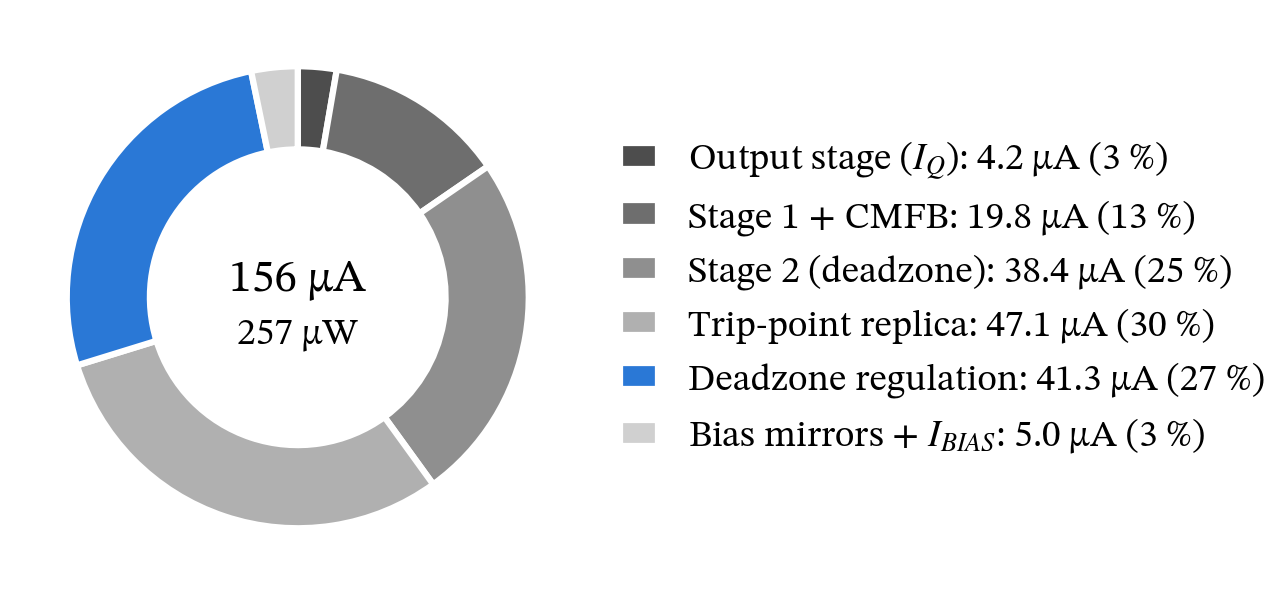
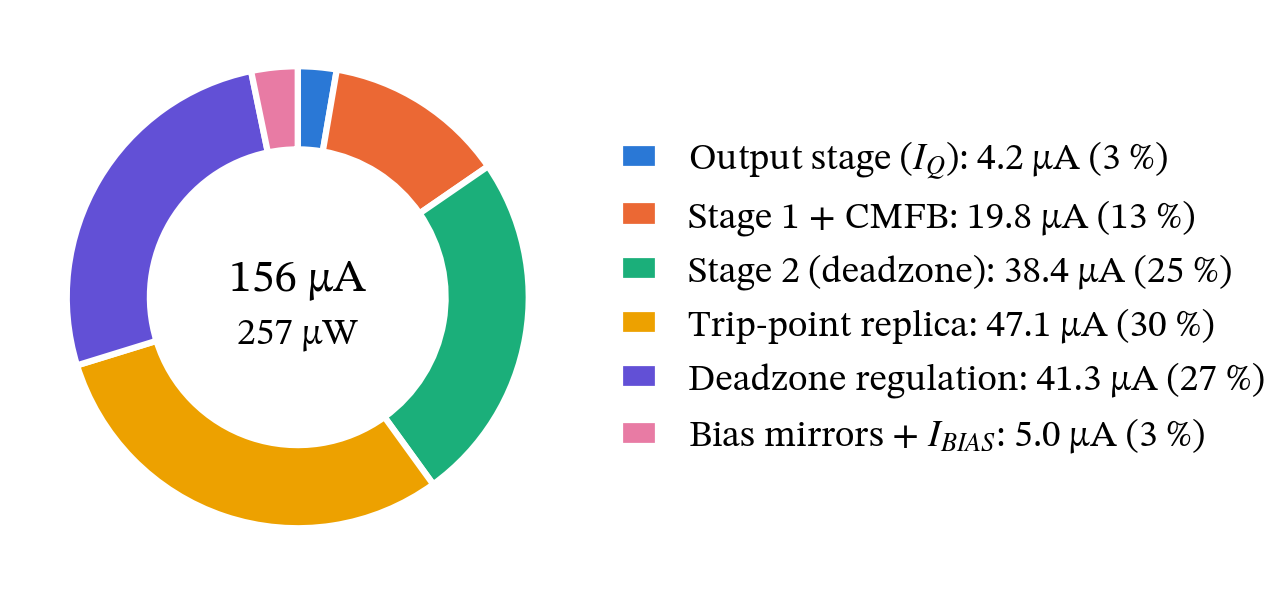
Fig. 23: one distinct colour per block in the power donut

diff --git a/sim/make_figures.py b/sim/make_figures.py
@@ -326,9 +326,11 @@ def fig_power():
               ("Deadzone regulation", ua("i(v.x1.v_x3)")),
               ("Bias mirrors + $I_{BIAS}$", ua("i(v.x1.v_xb)") + 1.0)]
     total = -1e6 * float(d["i(v2)"][0])
-    greys = ["#4d4d4d", "#6e6e6e", "#8f8f8f", "#b0b0b0", BLUE, "#d0d0d0"]
+    # one distinct hue per block, in an order that passes the colour-vision checks for
+    # neighbouring wedges (including last-to-first)
+    hues = [BLUE, ORANGE, "#1baf7a", "#eda100", "#6250d6", "#e87ba4"]
     fig, ax = plt.subplots(figsize=(COL1, 2.5))
-    wedges, _ = ax.pie([b[1] for b in blocks], colors=greys, startangle=90, counterclock=False,
+    wedges, _ = ax.pie([b[1] for b in blocks], colors=hues, startangle=90, counterclock=False,
                        wedgeprops=dict(width=0.36, edgecolor="white", linewidth=1.5))
     ax.text(0, 0.08, f"{total:.0f} µA", ha="center", va="center", fontsize=11)
     ax.text(0, -0.16, f"{total * 1.65:.0f} µW", ha="center", va="center")

diff --git a/README.md b/README.md
@@ -565,8 +565,8 @@ largest available power saving; the signal-path inverters of stage 2 set the sec
 traded against them.
 
 <p align="center"><img src="docs/figures/results/fig_power.png" width="65%" alt="power breakdown"></p>
-<p align="center"><b>Fig. 23.</b> Supply current by block at TT, 27 °C, 1.65 V, amplifier at rest; the
-deadzone regulation loop is highlighted.</p>
+<p align="center"><b>Fig. 23.</b> Supply current by block at TT, 27 °C, 1.65 V, amplifier at rest
+(total in the centre).</p>
 
 ---
 
